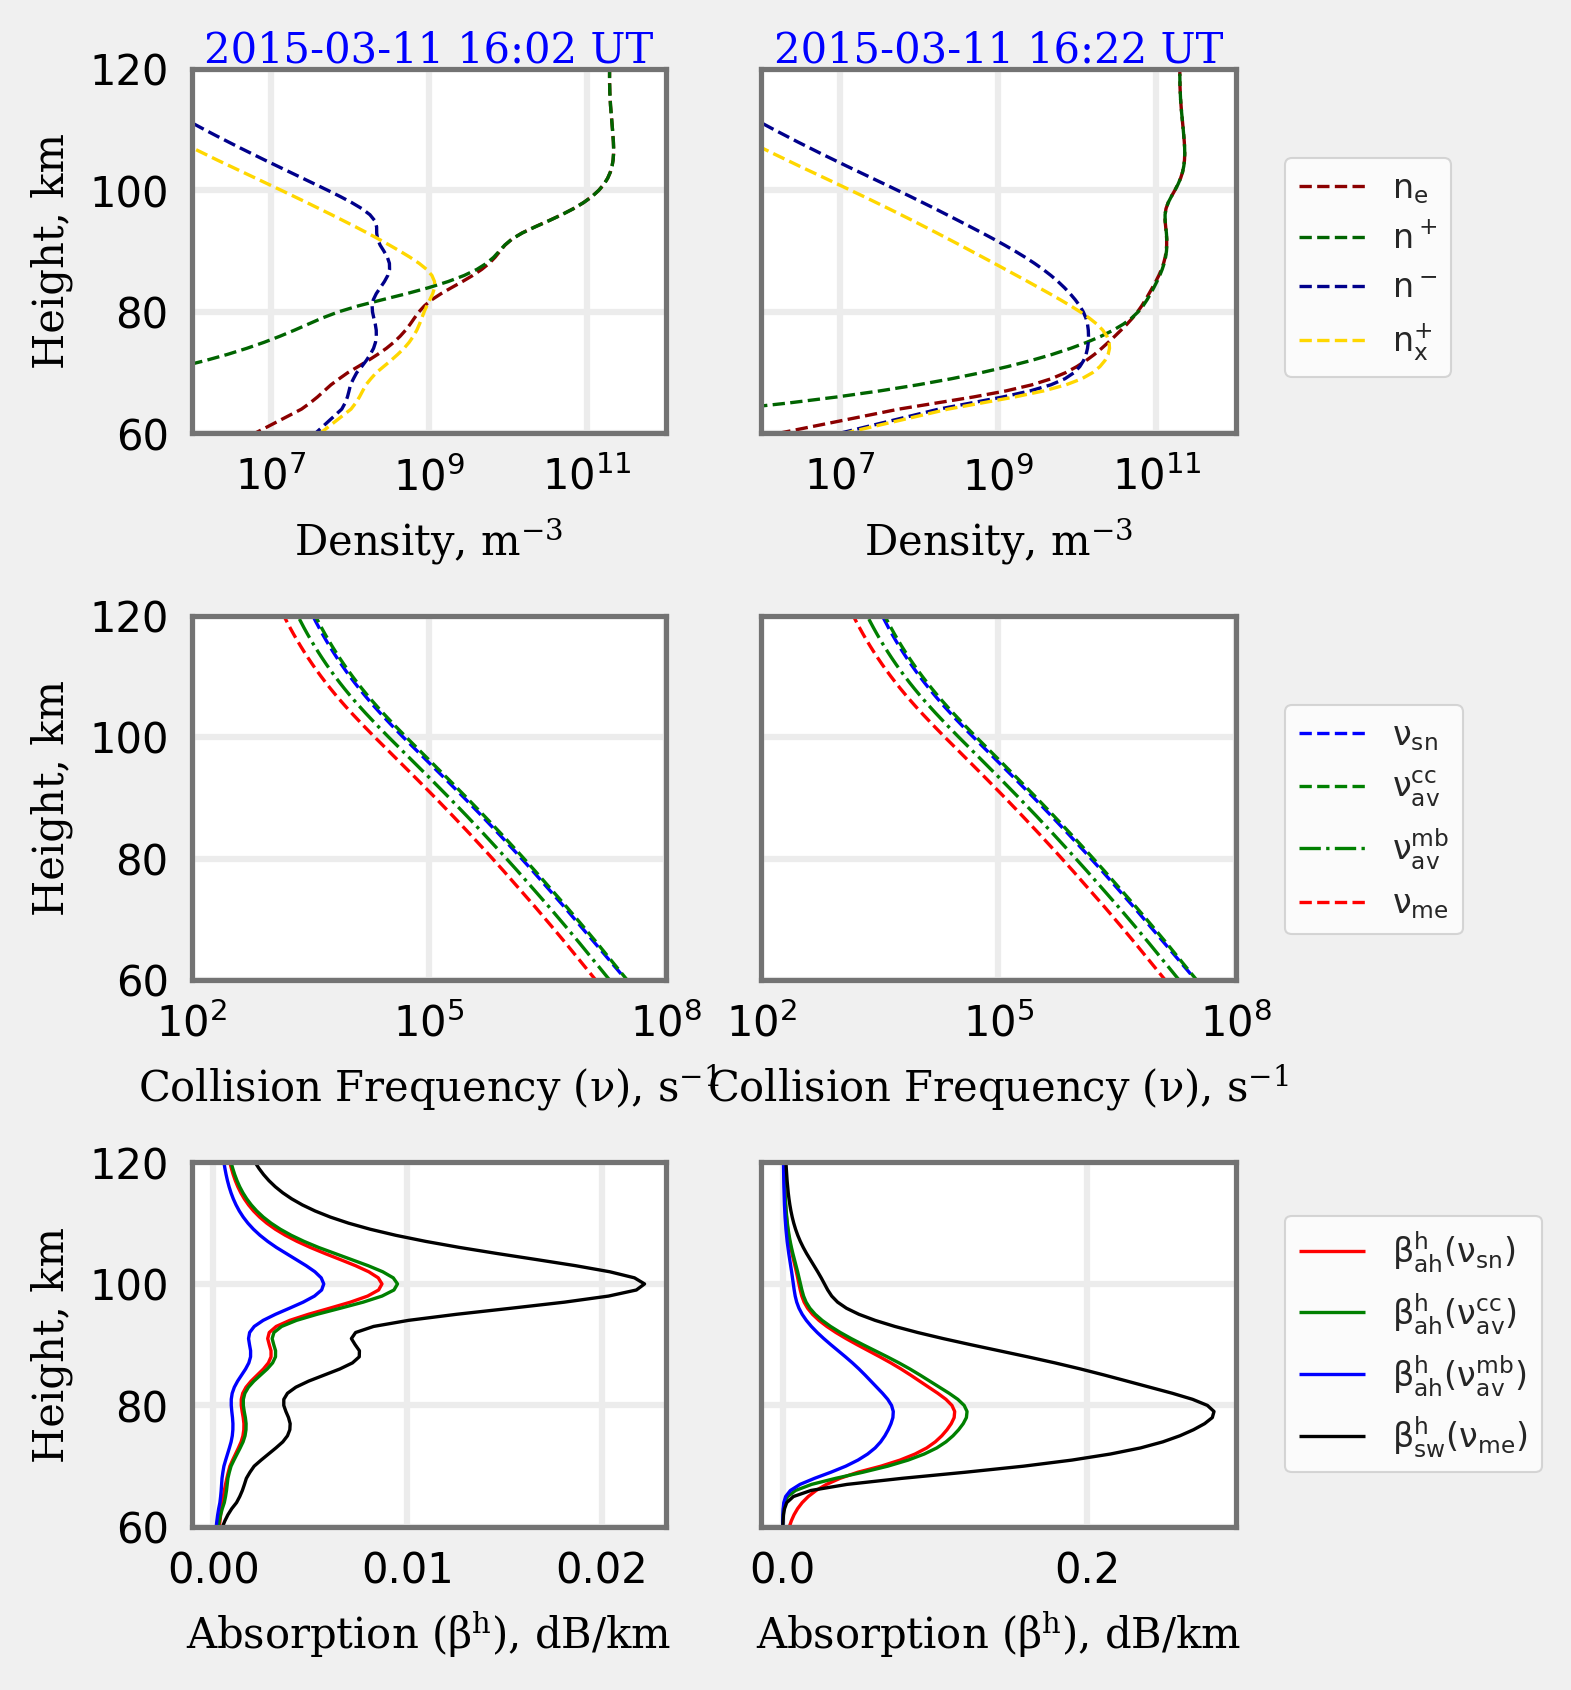
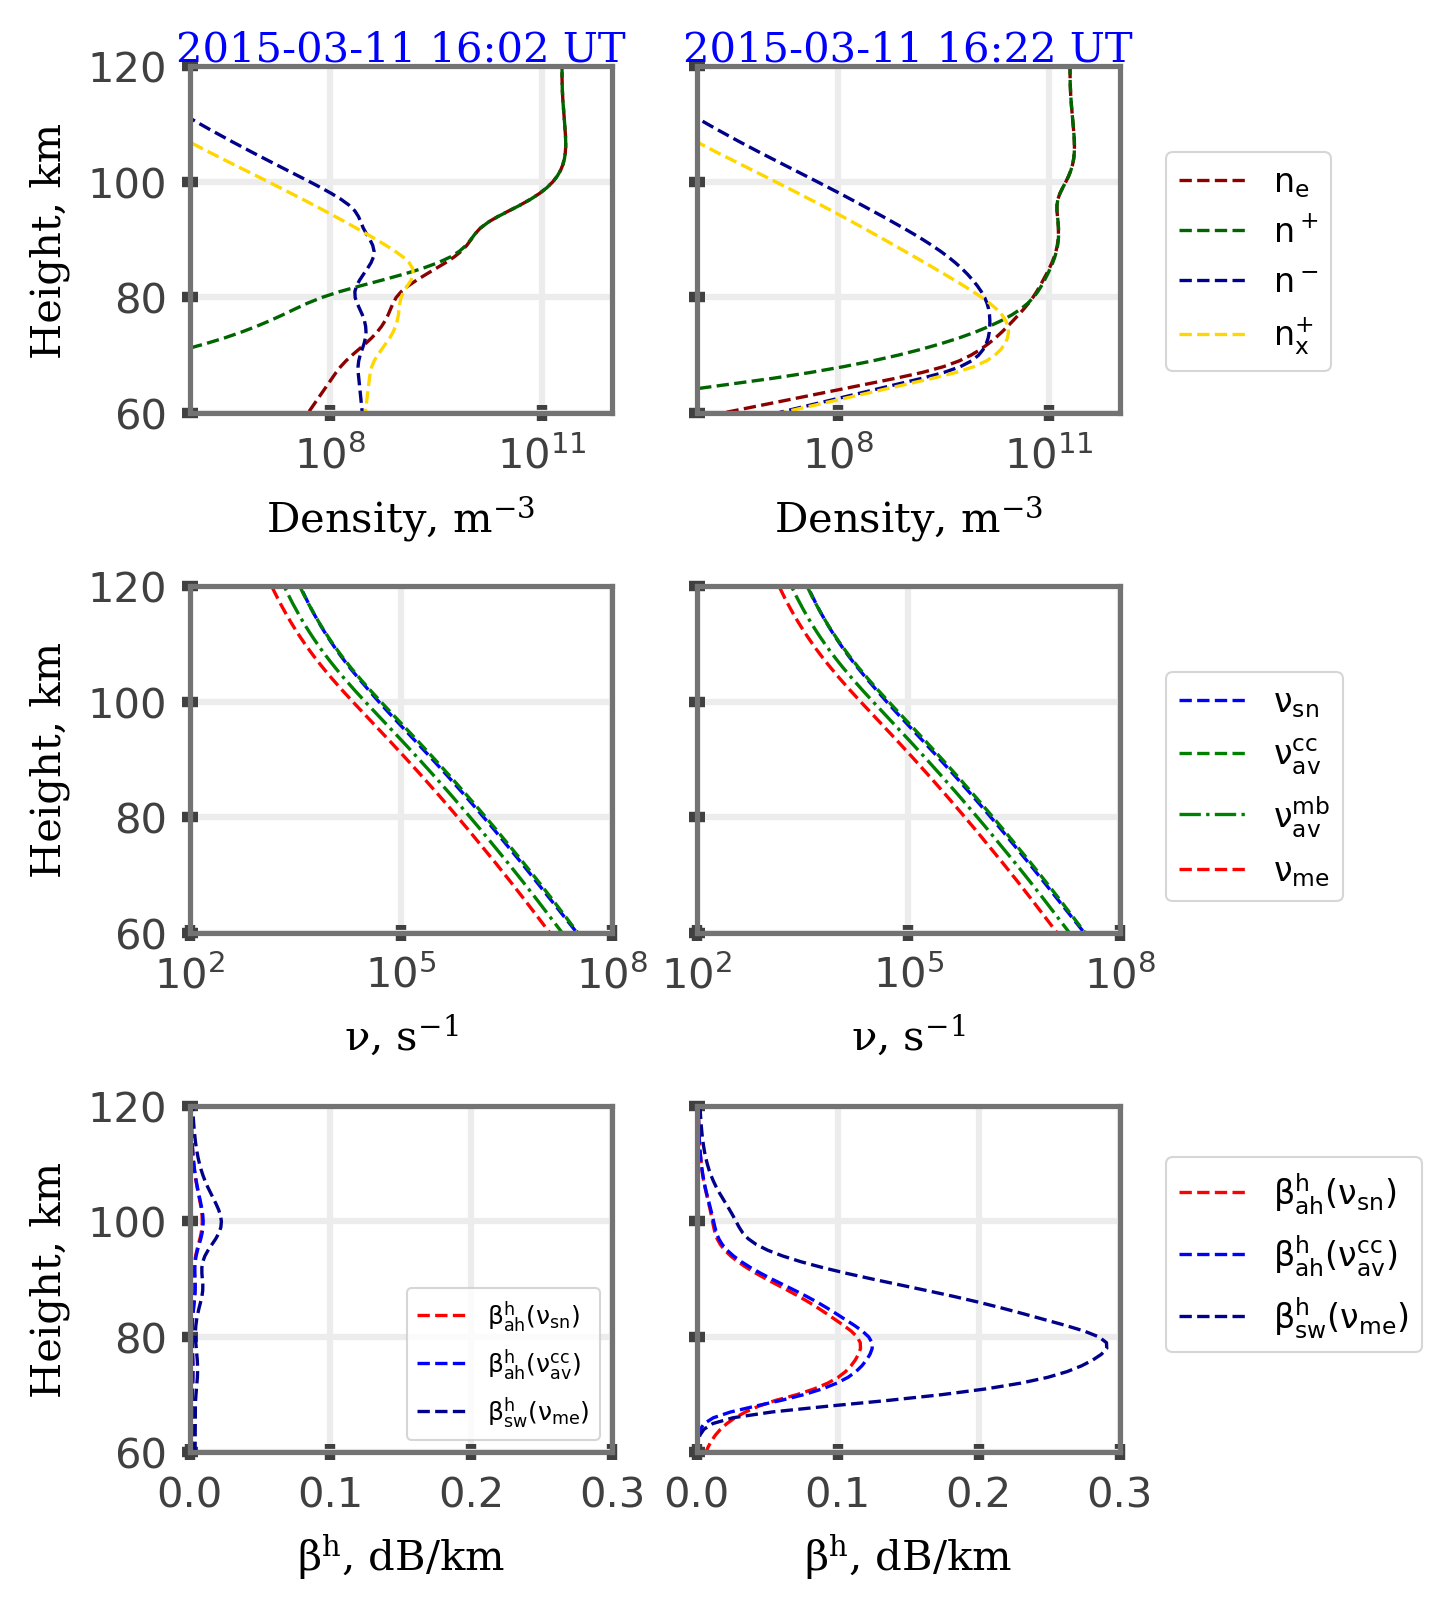
7/13/2020

diff --git a/wisse20.plot.py b/wisse20.plot.py
@@ -1,0 +1,229 @@
+#!/usr/bin/env python
+
+"""wisse20.plot.py: WISSE 2020 plots"""
+
+__author__ = "Chakraborty, S."
+__copyright__ = "Copyright 2020, SuperDARN@VT"
+__credits__ = []
+__license__ = "MIT"
+__version__ = "1.0."
+__maintainer__ = "Chakraborty, S."
+__email__ = "shibaji7@vt.edu"
+__status__ = "Research"
+
+import matplotlib
+matplotlib.use("Agg")
+import matplotlib.dates as mdates
+import matplotlib.pyplot as plt
+plt.style.use("config/alt.mplstyle")
+
+import sys
+sys.path.append("models/")
+import os
+import numpy as np
+import argparse
+import pandas as pd
+import datetime as dt
+from netCDF4 import Dataset, num2date
+from dateutil import parser as dparser
+import glob
+import utils
+
+
+fontT = {"family": "serif", "color":  "k", "weight": "normal", "size": 8}
+font = {"family": "serif", "color":  "black", "weight": "normal", "size": 10}
+
+from matplotlib import font_manager
+ticks_font = font_manager.FontProperties(family="serif", size=10, weight="normal")
+matplotlib.rcParams["xtick.color"] = "k"
+matplotlib.rcParams["ytick.color"] = "k"
+matplotlib.rcParams["xtick.labelsize"] = 10
+matplotlib.rcParams["ytick.labelsize"] = 10
+matplotlib.rcParams["mathtext.default"] = "default"
+
+def coloring_axes(ax, atype="left", col="red"):
+    ax.spines[atype].set_color(col)
+    ax.tick_params(axis="y", which="both", colors=col)
+    ax.yaxis.label.set_color(col)
+    fmt = matplotlib.dates.DateFormatter("%H%M")
+    ax.xaxis.set_major_formatter(fmt)
+    ax.xaxis.set_major_locator(mdates.MinuteLocator(interval=10))
+    return ax
+
+def coloring_twaxes(ax, atype="left", col="red", twcol="k"):
+    ax.spines[atype].set_color(col)
+    ax.tick_params(axis="y", which="both", colors=twcol)
+    ax.yaxis.label.set_color(twcol)
+    fmt = matplotlib.dates.DateFormatter("%H%M")
+    ax.xaxis.set_major_formatter(fmt)
+    ax.xaxis.set_major_locator(mdates.MinuteLocator(interval=10))
+    return ax
+
+ev = dt.datetime(2014,6,10,11,42)
+rio = utils.read_riometer(ev, "ott")
+gos = utils.read_goes(ev)
+fig, ax = plt.subplots(figsize=(3,3),nrows=1,ncols=1,dpi=120)
+sTime,eTime = dt.datetime(2014,6,10,11,35), dt.datetime(2014,6,10,12,5)
+col = "red"
+ax = coloring_axes(ax)
+font["color"] = col
+ax.semilogy(gos.date,gos.B_AVG,col,linewidth=0.75)
+ax.set_ylim(1e-6,1e-3)
+ax.set_ylabel(r"Solar Flux, $Wm^{-2}$",fontdict=font)
+font["color"] = "k"
+ax.set_xlabel("Time (UT)",fontdict=font)
+ax = coloring_twaxes(ax.twinx())
+ax.plot(rio.date, rio.hf_abs,"ko", markersize=1)
+ax.grid(False)
+ax.set_xlim(sTime,eTime)
+ax.set_ylim(-.1, 3.)
+ax.set_ylabel("HF Absorption, dB",fontdict=font)
+font["color"] = "darkgreen"
+ax.text(0.5,1.05,"Station - OTT, 10 June 2014",horizontalalignment="center",
+        verticalalignment="center", transform=ax.transAxes,fontdict=font)
+font["color"] = "k"
+fig.autofmt_xdate(rotation=70,ha="center")
+fig.savefig("docs-pub/wisse20/fig1.png",bbox_inches="tight")
+
+
+f = "data/sim/2014.06.10.11.42/flare.ott.nc.gz"
+os.system("gzip -d " + f)
+_x_ = Dataset(f.replace(".gz", ""))
+os.system("gzip " + f.replace(".gz", ""))
+times = num2date(_x_.variables["time"][:], _x_.variables["time"].units, _x_.variables["time"].calendar,
+        only_use_cftime_datetimes=False)
+times = np.array([x._to_real_datetime() for x in times]).astype("datetime64[ns]")
+times = [dt.datetime.utcfromtimestamp(x.astype(int) * 1e-9) for x in times]
+i = times.index(ev)
+j = times.index(times[10])
+alts = _x_.variables["alts"][:]
+ne  = _x_.variables["ne"][:]
+fig, axes = plt.subplots(figsize=(3, 6), sharey="row", nrows=2, ncols=1, dpi=100)
+fig.subplots_adjust(hspace=.3)
+ax = axes[0]
+ax.semilogx(utils.extp(alts, ne[j, :], 64), alts, "darkred", ls="-", label=r"PF, $n_e$", lw=0.8)
+ax.semilogx(utils.extp(alts, ne[i, :], 64), alts, "darkred", ls="--", label=r"F, $n_e$", lw=0.8)
+ax.set_ylabel("Height, km", fontdict=font)
+ax.set_xlabel(r"Density, $m^{-3}$", fontdict=font)
+ax.legend(loc=2, scatterpoints=3, ncol=1, fontsize=8, frameon=True)
+ax.set_ylim(70,120)
+ax.set_xlim(1e7,1e12)
+ax = axes[1]
+ax.set_xlabel(r"$\beta^h$, dB/km", fontdict=font)
+ax.set_ylabel("Height, km", fontdict=font)
+ax.set_ylim(70,120)
+ax.plot(utils.extp(alts, _x_.variables["abs.ah.sn.o"][j,:], 68)*10, alts, "b", 
+        label=r"PF, $\beta_{ah}(\nu_{sn})\times10$", ls="-", lw=0.8)
+ax.plot(utils.extp(alts, _x_.variables["abs.ah.av.cc.o"][j,:], 64)*10, alts, "g", 
+        label=r"PF, $\beta_{ah}(\nu_{av}^{cc})\times10$", ls="-", lw=0.8)
+#ax.plot(utils.extp(alts, _x_.variables["abs.ah.av.mb.o"][j,:], 64)*10, alts, "k", 
+#        label=r"PF, $\beta_{ah}(\nu_{av}^{mb})\times10$", ls="-", lw=0.8)
+ax.plot(utils.extp(alts, _x_.variables["abs.ah.sn.o"][i,:], 68), alts, "b", 
+        label=r"F, $\beta_{ah}(\nu_{sn})$", ls="--", lw=0.8)
+ax.plot(utils.extp(alts, _x_.variables["abs.ah.av.cc.o"][i,:], 64), alts, "g", 
+        label=r"F, $\beta_{ah}(\nu_{av}^{cc})$", ls="--", lw=0.8)
+#ax.plot(utils.extp(alts, _x_.variables["abs.ah.av.mb.o"][i,:], 64), alts, "k", 
+#        label=r"F, $\beta_{ah}(\nu_{av}^{mb})$", ls="--", lw=0.8)
+ax.set_xlim(0,.15)
+ax.legend(loc=1, scatterpoints=2, ncol=1, fontsize=8, frameon=True)
+fig.savefig("docs-pub/wisse20/fig3.png",bbox_inches="tight")
+
+
+ev = dt.datetime(2014,6,10,11,42)
+rio = utils.read_riometer(ev, "ott")
+fig, ax = plt.subplots(figsize=(3,3),nrows=1,ncols=1,dpi=120)
+sTime,eTime = dt.datetime(2014,6,10,11,35), dt.datetime(2014,6,10,12,5)
+ax = coloring_axes(ax, col="gray")
+ax.plot(rio.date, rio.hf_abs,color="gray",marker="o", markersize=1,ls="None")
+ax.set_ylim(1e-6,1e-3)
+font["color"] = "gray"
+ax.set_ylabel(r"Observation, dB",fontdict=font)
+font["color"] = "k"
+ax.set_xlabel("Time (UT)",fontdict=font)
+ax.grid(False, axis="y")
+ax.set_xlim(sTime,eTime)
+ax.set_ylim(-.1, 2.)
+ax = coloring_twaxes(ax.twinx(), col="gray")
+ax.plot(times, _x_.variables["drap"][:], "darkred", label=r"$\beta_{DRAP2}$", ls="--", lw=0.8)
+ax.plot(times, _x_.variables["sato"][:], "red", label=r"$\beta_{sato}$", ls="--", lw=0.8)
+ax.plot(times, utils.int_absorption(_x_.variables["abs.ah.sn.o"][:], alts, extpoint=68),
+        "b", label=r"$\beta_{ah}(\nu_{sn})$", ls="-", lw=1.2)
+ax.plot(times, utils.int_absorption(_x_.variables["abs.ah.av.cc.o"][:], alts, extpoint=64),
+        "g", label=r"$\beta_{ah}(\nu_{av}^{cc})$", ls="-", lw=0.8)
+#ax.plot(times, utils.int_absorption(_x_.variables["abs.ah.av.mb.o"][:], alts, extpoint=64),
+#        "k", label=r"$\beta_{ah}(\nu_{av}^{mb})$", ls="-", lw=1.2)
+ax.legend(loc=1, scatterpoints=2, ncol=1, fontsize=8, frameon=True)
+ax.set_ylim(-.1, 2.)
+font["color"] = "k"
+ax.set_ylabel("Modeled HF Absorption, dB",fontdict=font)
+font["color"] = "darkgreen"
+ax.text(0.5,1.05,"Station - OTT, 10 June 2014",horizontalalignment="center",
+                verticalalignment="center", transform=ax.transAxes,fontdict=font)
+font["color"] = "k"
+fig.autofmt_xdate(rotation=70,ha="center")
+fig.savefig("docs-pub/wisse20/fig4.png",bbox_inches="tight")
+
+
+
+evs = [dt.datetime(2013,5,13,16,5), dt.datetime(2014,3,29,17,48), dt.datetime(2014,6,10,11,42), dt.datetime(2015,3,11,16,22)]
+starts = [dt.datetime(2013,5,13,15,50), dt.datetime(2014,3,29,17,40), dt.datetime(2014,6,10,11,35), dt.datetime(2015,3,11,16,10)]
+ends = [dt.datetime(2013,5,13,16,40), dt.datetime(2014,3,29,18,10), dt.datetime(2014,6,10,12,5), dt.datetime(2015,3,11,17)]
+fig, axes = plt.subplots(figsize=(6,6),nrows=2,ncols=2,dpi=120)
+fig.subplots_adjust(hspace=0.5)
+for i, ev, start, end in zip(range(4), evs, starts, ends):
+    print(ev)
+    f = "data/sim/{dn}/flare.ott.nc.gz".format(dn=ev.strftime("%Y.%m.%d.%H.%M"))
+    ax = axes[int(i/2),np.mod(i,2)]
+    os.system("gzip -d " + f)
+    _x_ = Dataset(f.replace(".gz", ""))
+    os.system("gzip " + f.replace(".gz", ""))
+    times = num2date(_x_.variables["time"][:], _x_.variables["time"].units, _x_.variables["time"].calendar,
+                    only_use_cftime_datetimes=False)
+    times = np.array([x._to_real_datetime() for x in times]).astype("datetime64[ns]")
+    times = [dt.datetime.utcfromtimestamp(x.astype(int) * 1e-9) for x in times]
+    alts = _x_.variables["alts"][:]
+    rio = utils.read_riometer(ev, "ott")
+    ax = coloring_axes(ax, col="gray")
+    ax.plot(rio.date, rio.hf_abs,color="gray",marker="o", markersize=1,ls="None")
+    ax.set_ylim(1e-6,1e-3)
+    font["color"] = "gray"
+    if np.mod(i,2) == 0: ax.set_ylabel(r"Observation, dB",fontdict=font)
+    if np.mod(i,2) == 1: ax.set_yticklabels([])
+    font["color"] = "k"
+    ax.set_xlabel("Time (UT)",fontdict=font)
+    ax.grid(False, axis="y")
+    ax.set_xlim(start,end)
+    ax.set_ylim(-.1, 4.)
+    ax.xaxis.set_tick_params(rotation=20)
+
+    ax = coloring_twaxes(ax.twinx(), col="gray")
+    if np.mod(i,2) == 0: ax.set_yticklabels([])
+    ax.plot(times, _x_.variables["drap"][:], "darkred", label=r"$\beta_{DRAP2}$", ls="--", lw=0.8)
+    ax.plot(times, _x_.variables["sato"][:], "red", label=r"$\beta_{sato}$", ls="--", lw=0.8)
+    ax.plot(times, utils.int_absorption(_x_.variables["abs.ah.sn.o"][:], alts, extpoint=68),
+                    "b", label=r"$\beta_{ah}(\nu_{sn})$", ls="-", lw=1.2)
+    ax.plot(times, utils.int_absorption(_x_.variables["abs.ah.av.cc.o"][:], alts, extpoint=64),
+                    "g", label=r"$\beta_{ah}(\nu_{av}^{cc})$", ls="-", lw=0.8)
+    #ax.plot(times, utils.int_absorption(_x_.variables["abs.ah.av.mb.o"][:], alts, extpoint=64),
+    #                "k", label=r"$\beta_{ah}(\nu_{av}^{mb})$", ls="-", lw=1.2)
+    ax.legend(loc=1, scatterpoints=2, ncol=1, fontsize=8, frameon=True)
+    ax.set_ylim(-.1, 4.)
+    ax.xaxis.set_tick_params(rotation=20)
+    font["color"] = "k"
+    if np.mod(i,2) == 1: ax.set_ylabel("Modeled HF Absorption, dB",fontdict=font)
+    font["color"] = "darkgreen"
+    ax.text(0.5,1.05,"Stn. - OTT, " + ev.strftime("%Y-%m-%d"),horizontalalignment="center",
+            verticalalignment="center", transform=ax.transAxes,fontdict=font)
+    font["color"] = "k"
+    o = {
+            "A": utils.int_absorption(_x_.variables["abs.ah.sn.o"][:], alts, extpoint=68),
+            "B": utils.int_absorption(_x_.variables["abs.ah.av.cc.o"][:], alts, extpoint=64),
+            "C": _x_.variables["drap"][:],
+            "D": _x_.variables["sato"][:]
+        }
+    utils.Performance("ott", ev, times, o, start, end)
+fig.savefig("docs-pub/wisse20/fig5.png",bbox_inches="tight")
+
+
+if os.path.exists("models/__pycache__"): os.system("rm -rf models/__pycache__")
+if os.path.exists("models/experiments/__pycache__"): os.system("rm -rf models/experiments/__pycache__")

diff --git a/models/utils.py b/models/utils.py
@@ -238,6 +238,7 @@ class PointGrid(object):
         self.ni_x = cm.Nxp[::60, :]
         self._abs_ = Absorption(self.igrf["B"], self._col_, self.ne, fo=self.freq*1e6)
         self.drap = Absorption._drap_(self.ev, self.dn, self.rio, self.freq)
+        self.sato = Absorption._sato_(self.ev, self.dn, self.rio, self.freq)
         return
 
 
@@ -305,3 +306,48 @@ def estimate_error(m, d, kind="rmse"):
     dx = interp1d(xsec, m.hf_abs)(xnsec)
     e = np.sqrt(np.mean((dx-np.array(d.hf_abs.tolist()))**2))
     return e
+
+def store_cmd(args):
+    """ Store the commands """
+
+    return
+
+class Performance(object):
+    """ Class to estimate Skillset """
+
+    def __init__(self, stn, ev, times,  model, start, end, bar=4.):
+        """ Initialize the parameters """
+        self.stn = stn
+        self.ev = ev
+        self.times = times
+        self.model = model
+        self.start = start
+        self.end = end
+        self.bar = bar
+        self._read_data_()
+        self._skill_()
+        return
+
+    def _read_data_(self):
+        """ Read data from GOES and Riometer """
+        gos = read_goes(self.ev)
+        rio = read_riometer(self.ev, self.stn)
+        self.gos = gos[(gos.date>=self.start) & (gos.date<=self.end)]
+        rio = rio[(rio.date>=self.start) & (rio.date<=self.end)]
+        self.rio = rio[rio.hf_abs <= self.bar]
+        y = np.array(self.gos.B_AVG.tolist())
+        yn = (y - np.min(y)) / (np.max(y) - np.min(y))
+        self.mx = np.max(self.rio.hf_abs.tolist())
+        self.yx = self.mx * yn
+        return
+
+    def _skill_(self):
+        """ Estimate skills """
+        for k in self.model.keys():
+            d = pd.DataFrame()
+            d["date"], d["hf_abs"] = self.times, self.model[k]
+            d = d[(d.date>=self.start) & (d.date<=self.end)]
+            e = np.sqrt(np.mean((self.yx-np.array(d.hf_abs))**2))
+            print("RMSE -", e)
+            print("Err (mx)-", abs(self.mx-np.max(d.hf_abs)))
+        return

diff --git a/wisse20.ieee.py b/wisse20.ieee.py
@@ -1,0 +1,28 @@
+#!/usr/bin/env python
+
+"""wisse20.ieee.py: WISSE 2020 simulation"""
+
+__author__ = "Chakraborty, S."
+__copyright__ = "Copyright 2020, SuperDARN@VT"
+__credits__ = []
+__license__ = "MIT"
+__version__ = "1.0."
+__maintainer__ = "Chakraborty, S."
+__email__ = "shibaji7@vt.edu"
+__status__ = "Research"
+
+import os
+import datetime as dt
+
+evs = [dt.datetime(2013,5,13,16,5), dt.datetime(2014,3,29,17,48), dt.datetime(2014,6,10,11,42), dt.datetime(2015,3,11,16,22), ]
+starts = [dt.datetime(2013,5,13,15,40), dt.datetime(2014,3,29,17,30), dt.datetime(2014,6,10,11,20), dt.datetime(2015,3,11,15,30)]
+ends = [dt.datetime(2013,5,13,17), dt.datetime(2014,3,29,18,30), dt.datetime(2014,6,10,12,30), dt.datetime(2015,3,11,17,30)]
+
+for p in ["bgc", "flare"]:
+    for ev, start, end in zip(evs, starts, ends)
+        cmd = "python simulate.py -ev {ev} -s {s} -e {e} -p {p}".format(ev=ev.strftime("%Y-%m-%dT%H:%M"),
+                s=start.strftime("%Y-%m-%dT%H:%M"), e=end.strftime("%Y-%m-%dT%H:%M"), p=p)
+        os.system(cmd)
+
+if os.path.exists("models/__pycache__"): os.system("rm -rf models/__pycache__")
+if os.path.exists("models/experiments/__pycache__"): os.system("rm -rf models/experiments/__pycache__")

diff --git a/models/model.py b/models/model.py
@@ -29,8 +29,8 @@ class Model(object):
         """ Initialize all the parameters """
         self.rio = rio
         self.ev = ev
-        #self.sps = ["O2","N2","O","NO","CO","CO2","H2O"]
-        self.sps = ["O2","N2","O"]
+        self.sps = ["O2","N2","O","NO","CO","CO2","H2O"]
+        #self.sps = ["O2","N2","O"]
         for k in vars(args).keys():
             setattr(self, k, vars(args)[k])
         self._dir_ = "data/sim/{date}".format(date=self.ev.strftime("%Y.%m.%d.%H.%M"))
@@ -128,6 +128,10 @@ class Model(object):
         drap[:] = self.pg.drap.ravel()
         drap.units = "dB"
         drap.description = "Absorption estimated by DRAP2"
+        sato = rootgrp.createVariable("sato", "f8", ("ntimes",))
+        sato[:] = self.pg.sato.ravel()
+        sato.units = "dB"
+        sato.description = "Absorption estimated by Sato et al. (1975)"
 
         rootgrp.close()
         os.system("gzip "+fname.replace(".gz",""))

diff --git a/models/absorption.py b/models/absorption.py
@@ -329,3 +329,13 @@ class Absorption(object):
         sza = utils.calculate_sza(dates, lat, lon, [100])
         af = af0 * abs(np.cos(np.deg2rad(sza.ravel())))**0.75
         return af
+
+    @staticmethod
+    def _sato_(ev, dates, stn, frq):
+        """ Estimation based on Sato 1975 model """
+        xray = utils.read_goes(ev)
+        xray = xray[(xray.date>=dates[0]) & (xray.date<=dates[-1])]
+        lat, lon = utils.get_riom_loc(stn)
+        sza = utils.calculate_sza(dates, lat, lon, [100])
+        af = 4.37e3 * (1/frq)**2 * (xray.B_AVG**0.5) * np.abs(np.cos(np.deg2rad(sza.ravel())))
+        return af

diff --git a/simulate.py b/simulate.py
@@ -48,6 +48,7 @@ if __name__ == "__main__":
     parser.add_argument("-pc", "--plot_code", type=int, default=0, help="Plotting code,applicable if --prog==plot (default 0)")
     parser.add_argument("-fr", "--frequency", type=float, default=30, help="Frequency of oprrations in MHz (default 30 MHz)")
     args = parser.parse_args()
+    utils.store_cmd(args)
     if args.verbose:
         print("\n Parameter list for simulation ")
         for k in vars(args).keys():
